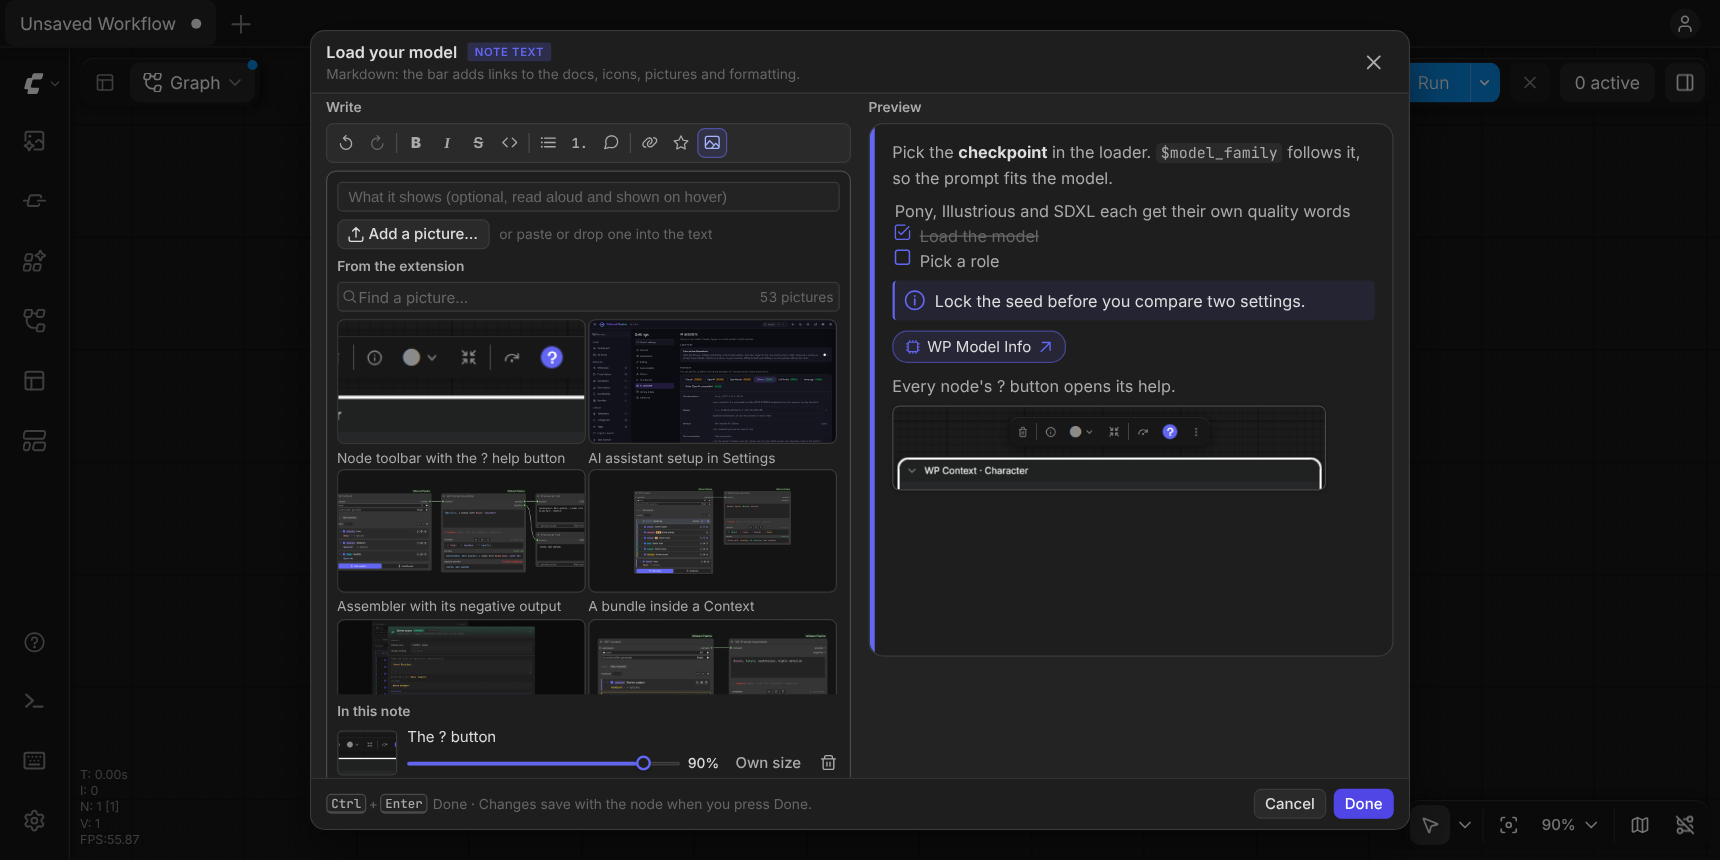
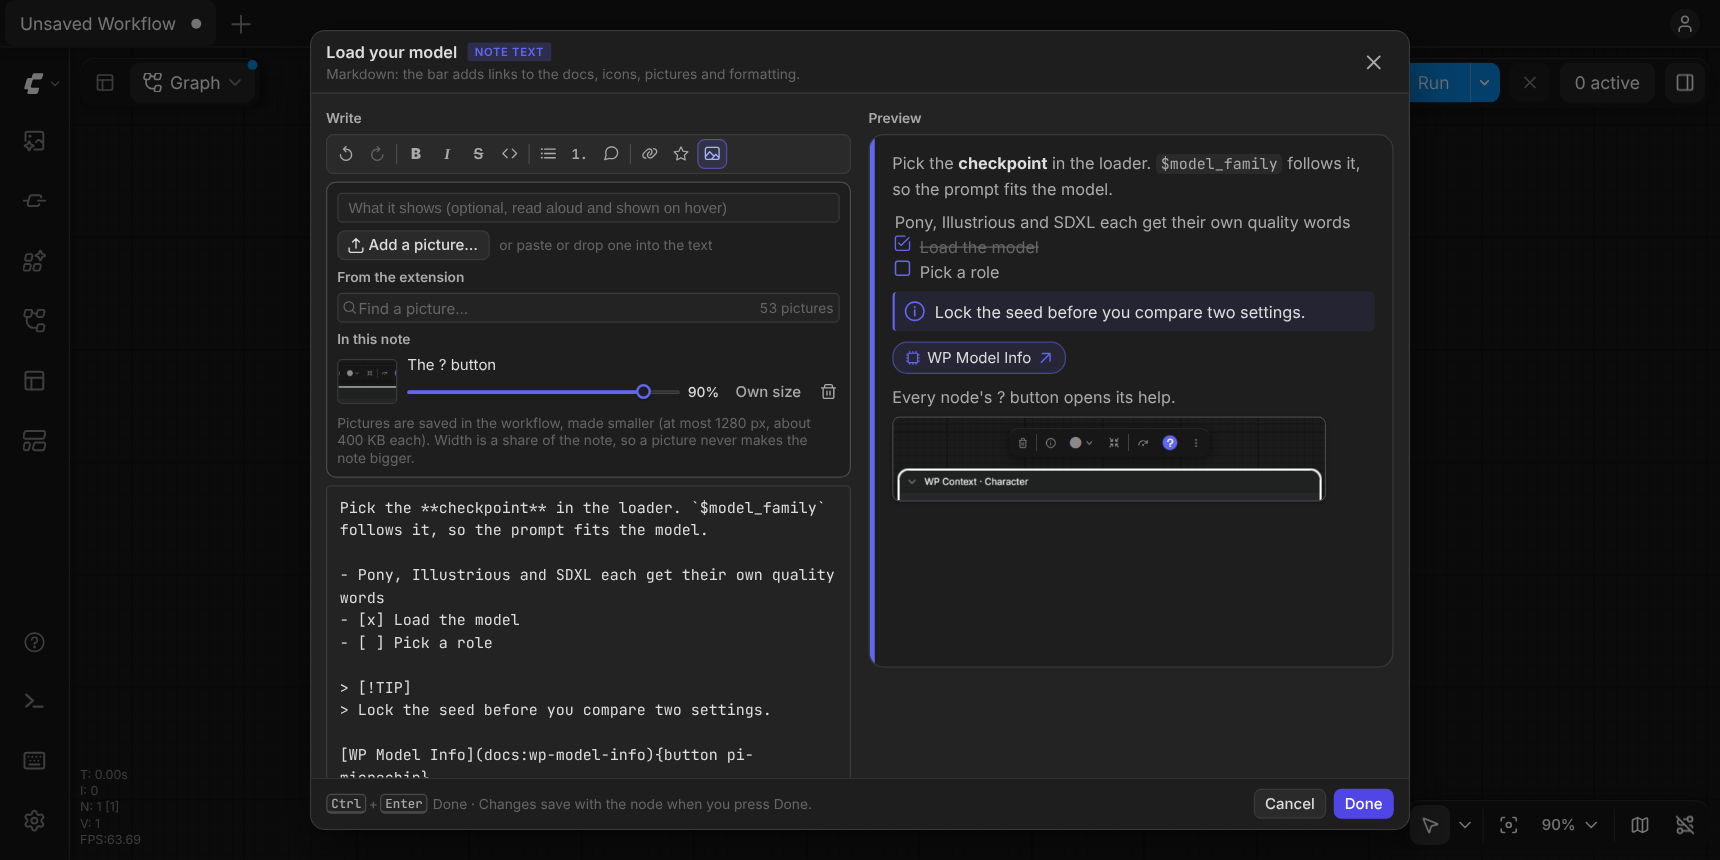
feat(note): show the extension's pictures only once you search

diff --git a/src/manager/docs/figures.ts b/src/manager/docs/figures.ts
@@ -92,7 +92,7 @@ export const FIGURE_TEXT: Record<string, string> = {
   "images/docs/wp-note-library.png":
     "Screenshot of the example workflow One image with the review dialog open over its Start here note, whose button reads Add this workflow's lists to my library. The dialog is titled Add to your library, From this workflow, and lists under New: 6 bundles and 15 modules each item with its kind and a grey EXAMPLE chip: the bundles Character, Look, Outfit, Shared lists, Scene and LoRA swaps, then the wildcards Hero, Hair, Eyes, Outfit, Colors, Setting and Time of day and the fixed values Style. At the bottom are Cancel and a primary button Add 6 bundles and 15 modules.",
   "images/docs/wp-note-pictures.png":
-    "Screenshot of a WP Note with pictures, and the same note open in its editor. The card on the left, Find the help page with a question-mark icon, reads Every WP node has a help page. Select the node and press the ? in its toolbar, then shows the picture the extension ships: ComfyUI's node toolbar over a WP Context · Character node, with the indigo ? button lit. Under it, The page opens next to the canvas, and a pasted screenshot of two chained Contexts at 70% of the note's width. On the right, the editor's formatting bar has its Pictures button pressed; the panel has a box for what the picture shows, Add a picture… (or paste or drop one into the text), From the extension with the toolbar picture, and In this note: Node toolbar with the ? help button at Own size and Two Contexts chained at 70%, each with a Width slider and a remove button, then a hint that pictures are saved in the workflow, made smaller, and never make the note bigger. Below is the note's Markdown with ![Two Contexts chained](wp:image/…){width=70%}.",
+    "Screenshot of a WP Note with pictures, and the same note open in its editor. The card on the left, Find the help page with a question-mark icon, reads Every WP node has a help page. Select the node and press the ? in its toolbar, then shows the picture the extension ships: ComfyUI's node toolbar over a WP Context · Character node, with the indigo ? button lit. Under it, The page opens next to the canvas, and a pasted screenshot of two chained Contexts at 70% of the note's width. On the right, the editor's formatting bar has its Pictures button pressed; the panel has a box for what the picture shows, Add a picture… (or paste or drop one into the text), From the extension with a search box for the 53 pictures it ships (its grid shows only what matches), and In this note: Node toolbar with the ? help button at Own size and Two Contexts chained at 70%, each with a Width slider and a remove button, then a hint that pictures are saved in the workflow, made smaller, and never make the note bigger. Below is the note's Markdown with ![Two Contexts chained](wp:image/…){width=70%}.",
   "images/docs/wp-note-bookmark.png":
     "Screenshot of WP Notes used as bookmarks. On the left, the Bookmarks dock lists three rows: 1 Load your model (its step number 1 in a blue circle, Alt + 1, highlighted after a jump), 2 Sampler (an amber lightning icon, Alt + 3) and 3 Label each frame (its step number 2 in a red circle, Alt + 2). In the middle, the note Label each frame is open in its editor (Step 2, Card, colour #ef4444, its title and Markdown text); at the bottom the Also a bookmark switch is on, with the hint Jump here from the Bookmarks dock or a shortcut, and under it Lands at with the centre of a 3 × 3 grid picked (Centre of the screen, 24 px in) and a Use this view button, Zoom set to 1 ×, and the shortcut Alt + 2, then Done. On the right, the note card Load your model (step 1, blue) shows a small bookmark mark in its head next to the pencil, and below it a WP Bookmark, Sampler, as a pill: a lightning icon, its name and Alt + 3.",
   "images/docs/wp-note.png":

diff --git a/src/components/note/NoteTextEditor.vue b/src/components/note/NoteTextEditor.vue
@@ -314,12 +314,13 @@ function onFile(ev: Event): void {
   input.value = "";
   void addFile(file);
 }
-/** The extension's pictures, narrowed by the search box. */
+/** The extension's pictures matching the search box; none until something is typed. */
 const assetQuery = ref("");
 const assetTiles = computed(() => {
   const q = assetQuery.value.trim().toLowerCase();
+  if (!q) return [];
   const origin = typeof window === "undefined" ? "" : window.location.origin;
-  return NOTE_ASSETS.filter((a) => !q || a.label.toLowerCase().includes(q) || a.id.includes(q))
+  return NOTE_ASSETS.filter((a) => a.label.toLowerCase().includes(q) || a.id.includes(q))
     .map((a) => ({ id: a.id, src: assetUrl(a.id, origin) ?? "", alt: a.label, caption: a.label }));
 });
 function onAssetTile(i: number): void {
@@ -606,7 +607,7 @@ function insertIcon(name: string): void {
         noun="pictures"
         test-prefix="note-asset-search"
       />
-      <div class="wp-note-ed__assets" data-test="note-assets">
+      <div v-if="assetQuery.trim()" class="wp-note-ed__assets" data-test="note-assets">
         <ImageGrid
           :images="assetTiles"
           :lightbox="false"

diff --git a/src/components/note/NoteTextEditor.test.ts b/src/components/note/NoteTextEditor.test.ts
@@ -251,8 +251,9 @@ describe("NoteTextEditor pictures", () => {
     const area = w.get('[data-test="note-text"]').element as HTMLTextAreaElement;
     area.setSelectionRange(5, 5);
     await w.get('[data-test="note-fmt-image"]').trigger("click");
-    // Every shipped picture is there, docs screenshots too; the search narrows them.
-    expect(w.findAll('[data-test="note-assets"] .wp-image-grid__open').length).toBe(NOTE_ASSETS.length);
+    // No grid until something is searched; the box says how many there are.
+    expect(w.find('[data-test="note-assets"]').exists()).toBe(false);
+    expect(w.text()).toContain(`${NOTE_ASSETS.length} pictures`);
     await w.get('input[aria-label="Find a picture from the extension"]').setValue("help button");
     const tiles = w.findAll('[data-test="note-assets"] .wp-image-grid__open');
     expect(tiles).toHaveLength(1);

diff --git a/src/manager/docs/pages/nodes/wp-note.vue b/src/manager/docs/pages/nodes/wp-note.vue
@@ -114,7 +114,8 @@ const syntax = [
         A note can show pictures: a screenshot of the step it explains, or one the extension ships, such as
         the node toolbar with its <b>?</b> button or any screenshot from these docs. Open <b>Pictures</b> in
         the bar and press <b>Add a picture…</b>, paste or drop a picture straight into the text, or pick one
-        under <b>From the extension</b> (the search box finds it by name). Each one goes on a line of its own
+        under <b>From the extension</b>: type part of its name in the search box and click it in the grid that
+        shows up. Each one goes on a line of its own
         where the caret is, named by what you type in the box (or the picture's name). The panel stays open
         after you add one, so you can set its width right away.
       </p>

diff --git a/docs/release-notes/next.md b/docs/release-notes/next.md
@@ -3,7 +3,7 @@
 - **WP nodes follow your ComfyUI color palette.** On Solarized, Arc, Nord, Github, palettes other extensions add (Obsidian, Milk White …) or one you imported, WP nodes now take the palette's node, widget and text colors instead of staying grey, so they match the nodes around them. Text is kept readable whatever the palette, and the accent, module kind and variable colors keep their meaning. A light palette that doesn't mark itself light (like Milk White) now gets the light colors instead of dark ones. Dark and Light look as before. To keep the WP colors everywhere, set **Wildcard Pipeline › Sizing › Canvas colors** to **Wildcard Pipeline colors**.
 - **The manager can wear your ComfyUI palette too.** Settings › Appearance › Colours has a new **ComfyUI palette** theme: the manager takes the colour palette ComfyUI is using, imported ones included, and switches the moment you change it in ComfyUI. Dark and Light wear Native; other palettes give the pages, cards and text their colours, kept readable, and decide dark or light themselves.
 - **WP Note's text has its own window.** Writing a long note inside the node was cramped, so the text now opens in a window like the module editors: press **Edit text** in the note's editor and you get the Markdown editor with its formatting bar on the left and the note as it will read on the right, updating as you type. **Done** (or Ctrl+Enter) puts the text on the note; **Cancel**, Escape or × leave the note as it was, and ask first if you changed something. The editor on the node keeps the settings you set while looking at the canvas: tone, look, colour, title, pin and the bookmark's landing spot, zoom and shortcut. The node shows the text's first line and its length.
-- **Any extension picture in a WP Note.** The Pictures panel's **From the extension** now offers every screenshot from the docs, not just the toolbar one, as a grid with a search box. After you add a picture the panel stays open, so its width slider is right there, and the icon list and picture grid use the window's height instead of a small scrolling box.
+- **Any extension picture in a WP Note.** The Pictures panel's **From the extension** now offers every screenshot from the docs, not just the toolbar one, found by typing part of its name (the grid shows only matches, so the panel stays tidy). After you add a picture the panel stays open, so its width slider is right there, and the icon list and picture grid use the window's height instead of a small scrolling box.
 - **Export as plain wildcard files.** Import / Export → Export has a new **Wildcard files (.zip)** button: the picks become `.txt` wildcard files for Dynamic Prompts, Impact Pack, Prompt-PostProcessor, Easy-Use and A1111/Forge, so you can share a pack with people who don't use Wildcard Pipeline. References and `$variables` become `__folder/name__`, uneven weights become repeated lines, and a README in the zip lists what had no plain form (rules, tags, the chance of nothing, negatives).
 
 - **More looks for WP Toggles.** Pick one has its own **Style** in the edit view: Radio (as before), Chip, Switch or Check, the same for every row; each row's Style is greyed out there since it no longer applies. A pick's **Value** is now a text box like the Assembler's that you can make taller: `$` lists every variable upstream (Context Injector ones too) and the toggles' own, tag, LoRA and embedding autocomplete work in it, and a `$name` nothing upstream sets is flagged under the box and reported in WP Debug after a run. Inline `{a|b}` picks need a seed, so in the Value and in Context Injector templates they print as written; both editors now say so. A Chip toggle now spans the whole row, in Any on and Pick one, so it's an easy target and lines up with the rows around it. In the edit view you can drag a toggle into or out of a label's group (the Group field still works), and a grouped toggle shows its label's colour on its left edge.
